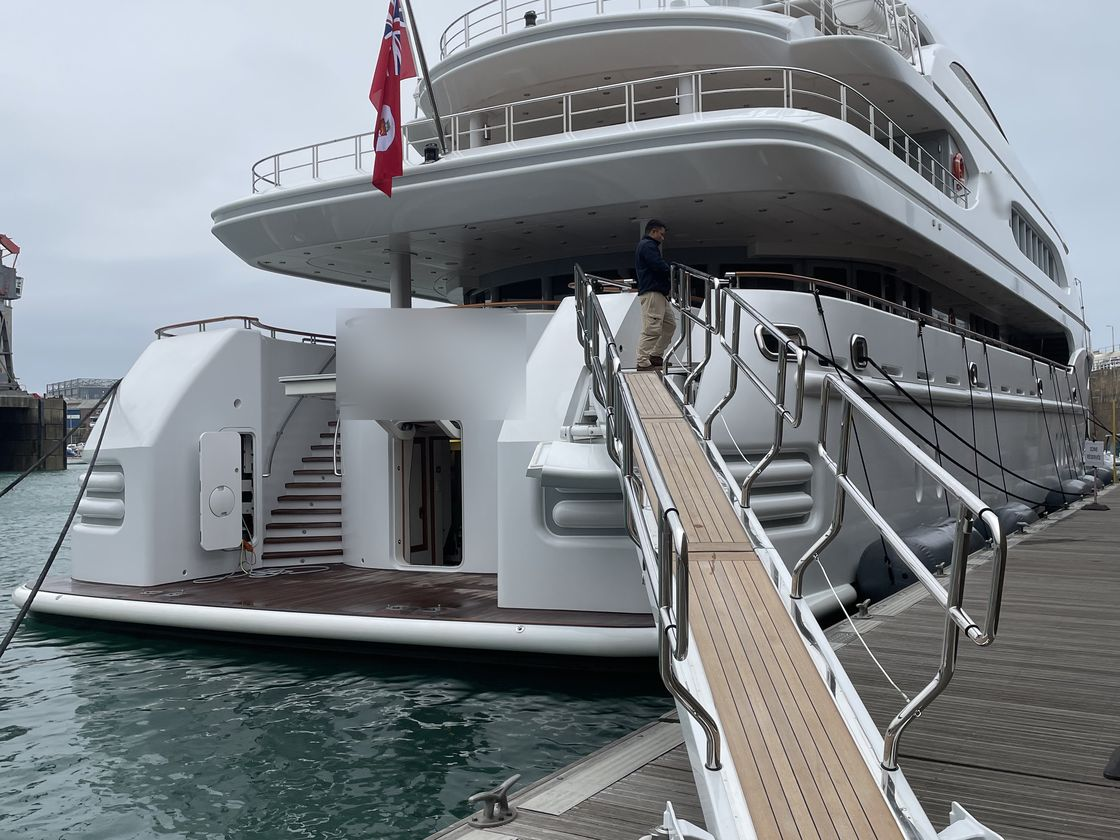
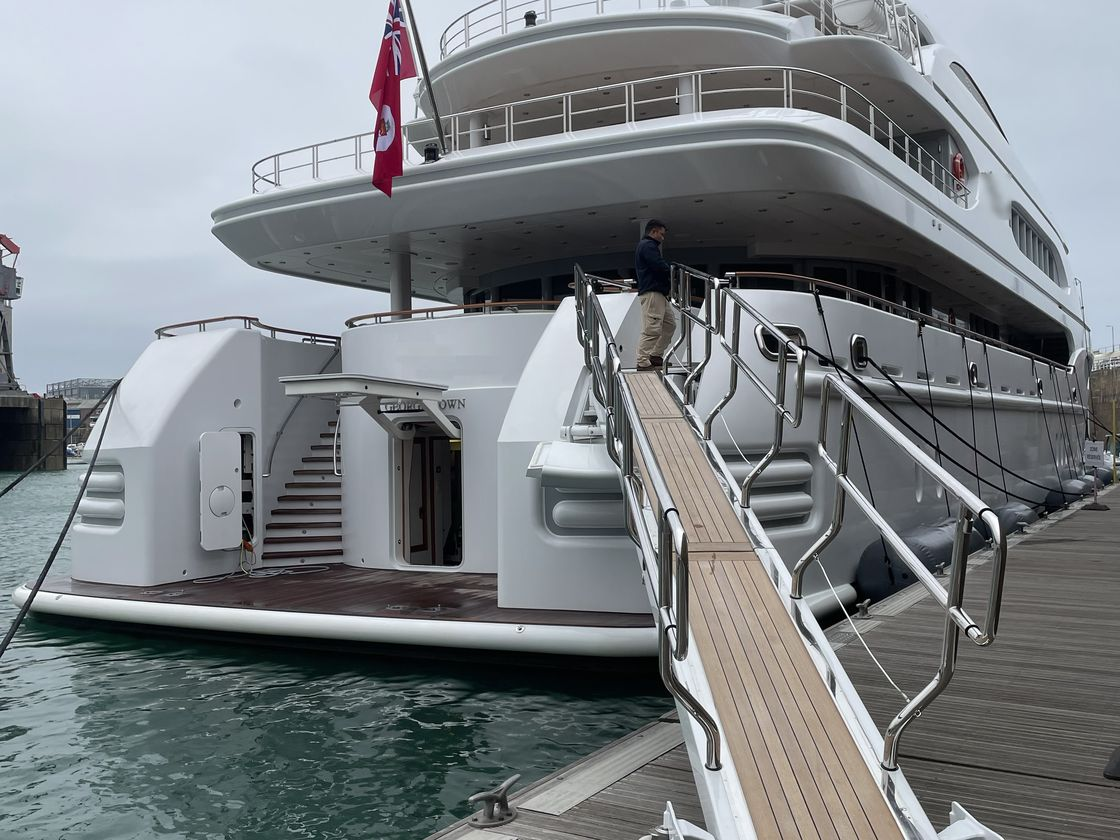
Yachting gallery: Simon's own edit of the Vive la Vie photo (stern name removed in Dropbox), the small name on the superstructure still blurred by the build; notes: release

Changed region(s): [[0.2812, 0.3405, 0.4688, 0.5262]]

diff --git a/CLAUDE.md b/CLAUDE.md
@@ -32,7 +32,7 @@ Public website of Channel Island Port Services (cips.agency). **`SITE-MANUAL.md`
 The picker carries a **preview of the journey card** (title, "N nm from <place>", destination, what for, speed, ETA) under the choices; it opens on the Mediterranean and follows each choice and the name. Its numbers come from the route the globe plans: `beat.js` (`publishKinRoute`) puts them on `CIPS_VESSEL.route` and fires `cips:route`; the real voyage card in the panel uses the same route (ETA counts down along it). Choosing a departure, or opening the picker, turns the globe to it (`focusOn`); once the journey is under way `tick()` keeps the globe turned to the vessel all the way (as it already did for a routed ship). "Scroll to start the journey" (the first scroll presses it) folds the picker away (`.voyage-mode`) and leaves the card with "Scroll to continue".
 
 ## Open items (5 Nov 2026)
-- GitHub repo `CIPS-SP/CIPS_SITE_LIVE` (private): `dev` and `main` are both on GitHub (GO-LIVE 17 Nov 2026, afternoon: www.cips.agency is the site (GoDaddy www CNAME to cipslive.pages.dev, Cloudflare custom domain Active; cips.agency forwarded by GoDaddy to https://www.cips.agency, http working, https waiting for GoDaddy's certificate); REVIEW_PAGE set to www.cips.agency in the dashboard and wrangler.toml; last release 19 Nov 2026, later, Simon "rebuild again, then push": the Yachting desk (still switched off) with the photo gallery in its top panel (home/hero-gallery.js, 31 photos from the image picker, tools/build-carousel.py), Plan / Replenish / Refresh, registry in place of customs; the image picker and its launcher (tools only, not published); pages check passed; before that 19 Nov 2026, desk review, Simon "push/release everything (still keeping the sector desks switched off)": the header links land on their section below the header from the globe, mid-journey and from another page (an early handler until the journey code is ready), the reviews code shared in home/reviews.js, the home services tidied (70m and 150m with no space, full stops, no white-glove), the Yachting desk reviewed (still switched off), the journey counter counts the sea as a start; pages check passed; before that 18 Nov 2026, bot check, Simon "push": notes and drop box code only (enquiries without the form timing or under 4 s dropped; drop box deployed and checked live), the site unchanged; before that 18 Nov 2026, review cards, Simon "Push": the strip's cards fitted to each review, centred, long ones six lines with Read more; before that 18 Nov 2026, reviews by type, Simon "Push": the Port Call Index shows CIPS Form reviews only, the 'What our clients say' strip for Testimonial and Imported, anonymised fallback examples; pages check passed; drop box deployed 18 Nov 2026 (review types: type, from, source, sourceLink pass through; wrangler signed out again); last release 17 Nov 2026, manual, Simon "push": notes only (SITE-MANUAL monthly check, analytics, Google listings plan), the site unchanged; before that 17 Nov 2026, address, Simon "push": the street address in the home page's business details (New North Quay, St Helier Marina, JE2 3ND); wrangler signed out on this PC after the drop box work (sign in again to deploy); before that 17 Nov 2026, enquiry alert, Simon "push": notes and drop box code only (ntfy alert, references only; all-time counts), the site unchanged; before that 17 Nov 2026, journey counts, Simon "push": the journey counter (js/journey-counts.js; drop box deployed with the Counter Durable Object and STATS_KEY, /stats), Cookies and Privacy wording, SITE-MANUAL.md; this release also switches on Cloudflare Web Analytics; pages check passed; before that 17 Nov 2026, analytics, Simon "Push and release": Cloudflare Web Analytics allowed in the CSP, Cookies and Privacy pages updated (switch on in the Pages project); pages check passed; before that 17 Nov 2026, search basics, Simon "Push and release": canonical addresses, link previews (images/brand/og-share.jpg, the email banner), schema.org business details, sitemap without .html; pages check passed; before that 17 Nov 2026, after go-live, Simon "Push and release": the yachting page (switched off) noindex and out of the sitemap; before that 17 Nov 2026, go-live, Simon "push": security.txt on www.cips.agency; before that 17 Nov 2026, latest, Simon "Push and release": a phone held sideways gets 'Turn your phone upright' over the journey (sideways phone, turning arrows, upright phone) with Skip to CIPS; full check passed; before that 17 Nov 2026, later, Simon "Push and release": the footer's copyright line straight under Built by CIPS, no divider (home and yachting page); before that 17 Nov 2026, Simon "Push and release": CIPS Desk LIVE 'Ask us to open a private portal, a live view...', the computer finale's closing line clear of the plotter, and the go-live preparation (GO-LIVE.md; old Wix addresses to the home page, HSTS for www.cips.agency, sitemap; no effect until www points here); pages check passed; before that 16 Nov 2026, final, Simon "then push release": the enquiry form's 'Goes to our duty agent' kept on one line (under the button on a phone), the chart picture's frame reads 'The approach'; pages check passed; before that 16 Nov 2026, last, Simon "Fix those bits then push release": the main site's guard arms only once the journey has its full length (fast scroll reloaded the globe), at most 2 On Scene clips loaded on a phone, the finale's glide certainly folds the journey away (stuck at the top of the main site); full check passed; before that 16 Nov 2026, latest, Simon "push and release when its fixed and checked": a swipe at the end of the phone film glides into the main site (no bounce, no fling to the foot), the globe redrawn at once when the iPhone toolbar folds away; full check passed; before that 16 Nov 2026, later, Simon "push and release when the check passes": the self-playing pull-back and film on the computer too (full HD film), both unlocking 1 s after the logo and gliding on by themselves, no pause at the end of the phone film; full check passed; before that 16 Nov 2026 (the clock went back), Simon "push and release when the check passes": the completion message back at the fold with two showings, the phone film's open sea slowed so it is still moving under the badge then straight on (`journey-6-departure-tall-4.mp4`), no arrival brake after the glide, the garbage man at the others' pace (quay 14250vh, both versions); full check passed; before that 18 Nov 2026, latest, Simon "push and release when the check passes": the phone's page locked against scrolling on from the card's fold (back by hand still works), three slow completion flashes, the tall film rebuilt from the HD original with a keyframe every 10 pictures (`journey-6-departure-tall-3.mp4`, no shimmer), arrows on the picker's Scroll to start the journey; full check passed; before that 18 Nov 2026, later, Simon "push release everything": the phone film's swoop up to the pier heads slowed 2.5x (`journey-6-departure-tall-2.mp4`, `tallStretch`), the plotter off 1 s sooner, the glide into the main site after the last picture, arrows on Scroll the journey, no empty band above the home page on a phone, slower completion flashes; full check passed (before the flash change); before that 18 Nov 2026, Simon "push and release it when complete": the quay card's message fades as it folds and the completion message flashes once folded, the phone's pull-back from the quay self-playing after the flashes, the film at full speed, the plotter gone 0.7 s into the pier-heads shot; full check passed; before that 17 Nov 2026, night, Simon "push and release": the phone film plays with the page held still (the scene follows the film's clock), the arrival brake at the top of the main site, the quay completion message only as the card folds, the space under Back to the journey closed on a phone; full check passed; before that 17 Nov 2026, evening, Simon "push and release": the phone finale's film self-playing (0.75 speed, scroll back to rewind, the last picture held 3.5 s), Skip to CIPS back at the quay on a phone; full check passed; before that 17 Nov 2026, later, Simon "push and release": the harbour scene not drawn under the full screen finale film (smoother scrub on a phone), the quay card's three pulses after it has folded, an iPhone bounce at the top of the main site no longer reloading the globe; full check passed; before that 17 Nov 2026, Simon "push and release if you find and implement solutions": the phone finale's film scrolled half as long again, no shrink into the home page on a phone (the judder at the landing), the film's own roundel edge covered in the last shot; full check passed; before that 16 Nov 2026, later, Simon "Push and release": the tall film rebuilt with clean 25 fps timing (the iPhone stuck on its first picture) with a fallback to the 720p copy, the journey released for good once folded away, the open sea 30% of the film's scroll, the quay card folding with its message underneath, the moored yachts drawn as sharp overlays, the quay On Scene window the card's height; full check passed; before that 16 Nov 2026, Simon "Push and release": the phone finale's tall film (sharp, smooth to scrub) ending on the open sea centred on the yacht with the CIPS roundel above it, no judder at the top of the main site after the finale, the quay card's close back on a phone; full check passed; before that 15 Nov 2026, later, Simon "push and release (skip the full site test)": the phone opening's Scroll the journey level with the CHANNEL ISLANDS label; checked in a phone-sized browser only; before that 15 Nov 2026, Simon "do all of that then push and release": the phone opening's heading at the top, no old quay card after the quay, the finale's first shots slower and the overhead shot skipped, a steady journey length on touch screens (the toolbar no longer re-measures it); before that 14 Nov 2026, seventh, Simon "push and release": the phone finale slower (6000vh) with its last shot shown whole, the plotter hidden at the quay and over the last shot, the quay card bottom right, the yacht scaled with the wider harbour view, no intro line on the phone opening, the Corbiere clip hold x1.5; full check passed; before that 14 Nov 2026, sixth, Simon "push and release": the finale scrolled like the rest of the journey on phone and computer, no plotter at the quay on a phone, the stage 100dvh (no cream strip on an iPhone); full check passed; before that 14 Nov 2026, fifth, Simon "push and release everything": On Scene clips no longer freeze on a phone, the Corbiere clip loops further into Noirmont, the finale waits while the page is not in front, the photos under the boardroom heading on narrow screens, 'trusted associates and partners'; full check could not finish (left-over test Chromes), checked in the browser pane instead: no errors; before that 14 Nov 2026, fourth, Simon "push and release ... assuming no errors": the 720p departure film on phones, the finale keeping real time, the slimmer quay card, the wider berth approach; the full check could not finish (left-over test Chromes slowed the PC), checked instead in the browser pane: no errors; before that 14 Nov 2026, third, Simon "push and release": phone memory cut from about 780 MB to 330 MB (half-size plates, no z19 harbour tiles), no vessel name, the yacht off Jersey at the globe's end, the plotter's Expand to the right, plotter and footage aligned, slower Noirmont, a wider harbour; before that 14 Nov 2026 later, Simon "push and release": phones run the computer's real scenes at the computer's length with the plotter and On Scene side by side, no game doors, the quay card below the Skip pill and no voyage card (the light sea version only if 3D fails); before that, 14 Nov 2026, Simon "push and release": the phone work: the lighter journey at sea on touch phones (`_shared/phone-sea.js`) with the real harbour after it, the plotter and On Scene side by side, the phone opening (intro above the cards, Skip top right, globe position C, voyage card at the bottom, sideways drags turn the globe without starting the journey) and the phone review fixes (review stars, contact block, one-line pill, figures two by two, legal tabs), details in `PHONE-REVIEW.md`; before that 10 Nov 2026, Simon "push and release": notes only (security plan: DMARC, DKIM, the other two domains), the site itself unchanged since `c76a160`; before that 7 Nov 2026 late, Simon "push and release everything": `main` = `c76a160` with the top bar gone and the 24/7 call button beside WhatsApp, the Back to the globe pill below the header, the copyright line at the very bottom; before that `b5a38d4` with the security headers (A1-A4, checked live: every inline script allowed, drop box reachable, security.txt served), the log-in links hidden and Privacy & Security; before that, 7 Nov evening, `7b356e1` with the footer, Built by CIPS, the Atlantic Gateway vector logo, the review prompt moved, the Simulation pill hidden, the legal pages filled in, and the enquiry form sending through the drop box and Brevo (tested live: E-4HHXHC from cipslive). Before that, `main` was at `79e6efd`; earlier releases: `0f36c2a` with the picker's glow all the way round, after `9b6cf2e` with Scroll the journey, `86f3c3f` with Howard's photo and the sharper Le Mourier logo, `37c94fe` with the heading In the Boardroom and at the Berth and Howard's placeholder out, `b0ef048` with Simon's quayside photo, `a67616a` with the sharper Water Taxi CI logo, `da9924e` with the heading From Boardroom to Quayside, `ec0dc23` with Simon and Howard in The personal touch, `8dd929d` with steadier header links and Contact going to The personal touch, `7982019` with the score's part-filled stars, `6a0945f` with the Port Call Index card changes and the home page reorder, `3f5a0a4` with the header links fixed and the old reviews pages removed, `863a76d` with the four home figures on one size, `6c8d923` with the desk cards switched off (pages kept), `2e130ef` with the Alderney card's wording, `0874ba0` with Simon's portrait in The personal touch and `bee8d4a` with the Trusted Partners strip, the Guernsey wording and the Desk brief). Push again only when Simon says push. Cloudflare Pages project `cipslive` is live at https://cipslive.pages.dev (5 Nov; builds `main`, previews off, noindex), so every release to `main` goes online there. cips.agency is connected since 17 Nov 2026 (www.cips.agency is the site; see GO-LIVE.md).
+- GitHub repo `CIPS-SP/CIPS_SITE_LIVE` (private): `dev` and `main` are both on GitHub (GO-LIVE 17 Nov 2026, afternoon: www.cips.agency is the site (GoDaddy www CNAME to cipslive.pages.dev, Cloudflare custom domain Active; cips.agency forwarded by GoDaddy to https://www.cips.agency, http working, https waiting for GoDaddy's certificate); REVIEW_PAGE set to www.cips.agency in the dashboard and wrangler.toml; last release 19 Nov 2026, evening, Simon "push the changes and the cruise desk page": the Cruise desk built (still switched off, gallery of 10 starter photos), Vive la Vie's name taken off in Dropbox by Simon (the small one on the superstructure blurred by the build); pages check passed; before that 19 Nov 2026, later, Simon "rebuild again, then push": the Yachting desk (still switched off) with the photo gallery in its top panel (home/hero-gallery.js, 31 photos from the image picker, tools/build-carousel.py), Plan / Replenish / Refresh, registry in place of customs; the image picker and its launcher (tools only, not published); pages check passed; before that 19 Nov 2026, desk review, Simon "push/release everything (still keeping the sector desks switched off)": the header links land on their section below the header from the globe, mid-journey and from another page (an early handler until the journey code is ready), the reviews code shared in home/reviews.js, the home services tidied (70m and 150m with no space, full stops, no white-glove), the Yachting desk reviewed (still switched off), the journey counter counts the sea as a start; pages check passed; before that 18 Nov 2026, bot check, Simon "push": notes and drop box code only (enquiries without the form timing or under 4 s dropped; drop box deployed and checked live), the site unchanged; before that 18 Nov 2026, review cards, Simon "Push": the strip's cards fitted to each review, centred, long ones six lines with Read more; before that 18 Nov 2026, reviews by type, Simon "Push": the Port Call Index shows CIPS Form reviews only, the 'What our clients say' strip for Testimonial and Imported, anonymised fallback examples; pages check passed; drop box deployed 18 Nov 2026 (review types: type, from, source, sourceLink pass through; wrangler signed out again); last release 17 Nov 2026, manual, Simon "push": notes only (SITE-MANUAL monthly check, analytics, Google listings plan), the site unchanged; before that 17 Nov 2026, address, Simon "push": the street address in the home page's business details (New North Quay, St Helier Marina, JE2 3ND); wrangler signed out on this PC after the drop box work (sign in again to deploy); before that 17 Nov 2026, enquiry alert, Simon "push": notes and drop box code only (ntfy alert, references only; all-time counts), the site unchanged; before that 17 Nov 2026, journey counts, Simon "push": the journey counter (js/journey-counts.js; drop box deployed with the Counter Durable Object and STATS_KEY, /stats), Cookies and Privacy wording, SITE-MANUAL.md; this release also switches on Cloudflare Web Analytics; pages check passed; before that 17 Nov 2026, analytics, Simon "Push and release": Cloudflare Web Analytics allowed in the CSP, Cookies and Privacy pages updated (switch on in the Pages project); pages check passed; before that 17 Nov 2026, search basics, Simon "Push and release": canonical addresses, link previews (images/brand/og-share.jpg, the email banner), schema.org business details, sitemap without .html; pages check passed; before that 17 Nov 2026, after go-live, Simon "Push and release": the yachting page (switched off) noindex and out of the sitemap; before that 17 Nov 2026, go-live, Simon "push": security.txt on www.cips.agency; before that 17 Nov 2026, latest, Simon "Push and release": a phone held sideways gets 'Turn your phone upright' over the journey (sideways phone, turning arrows, upright phone) with Skip to CIPS; full check passed; before that 17 Nov 2026, later, Simon "Push and release": the footer's copyright line straight under Built by CIPS, no divider (home and yachting page); before that 17 Nov 2026, Simon "Push and release": CIPS Desk LIVE 'Ask us to open a private portal, a live view...', the computer finale's closing line clear of the plotter, and the go-live preparation (GO-LIVE.md; old Wix addresses to the home page, HSTS for www.cips.agency, sitemap; no effect until www points here); pages check passed; before that 16 Nov 2026, final, Simon "then push release": the enquiry form's 'Goes to our duty agent' kept on one line (under the button on a phone), the chart picture's frame reads 'The approach'; pages check passed; before that 16 Nov 2026, last, Simon "Fix those bits then push release": the main site's guard arms only once the journey has its full length (fast scroll reloaded the globe), at most 2 On Scene clips loaded on a phone, the finale's glide certainly folds the journey away (stuck at the top of the main site); full check passed; before that 16 Nov 2026, latest, Simon "push and release when its fixed and checked": a swipe at the end of the phone film glides into the main site (no bounce, no fling to the foot), the globe redrawn at once when the iPhone toolbar folds away; full check passed; before that 16 Nov 2026, later, Simon "push and release when the check passes": the self-playing pull-back and film on the computer too (full HD film), both unlocking 1 s after the logo and gliding on by themselves, no pause at the end of the phone film; full check passed; before that 16 Nov 2026 (the clock went back), Simon "push and release when the check passes": the completion message back at the fold with two showings, the phone film's open sea slowed so it is still moving under the badge then straight on (`journey-6-departure-tall-4.mp4`), no arrival brake after the glide, the garbage man at the others' pace (quay 14250vh, both versions); full check passed; before that 18 Nov 2026, latest, Simon "push and release when the check passes": the phone's page locked against scrolling on from the card's fold (back by hand still works), three slow completion flashes, the tall film rebuilt from the HD original with a keyframe every 10 pictures (`journey-6-departure-tall-3.mp4`, no shimmer), arrows on the picker's Scroll to start the journey; full check passed; before that 18 Nov 2026, later, Simon "push release everything": the phone film's swoop up to the pier heads slowed 2.5x (`journey-6-departure-tall-2.mp4`, `tallStretch`), the plotter off 1 s sooner, the glide into the main site after the last picture, arrows on Scroll the journey, no empty band above the home page on a phone, slower completion flashes; full check passed (before the flash change); before that 18 Nov 2026, Simon "push and release it when complete": the quay card's message fades as it folds and the completion message flashes once folded, the phone's pull-back from the quay self-playing after the flashes, the film at full speed, the plotter gone 0.7 s into the pier-heads shot; full check passed; before that 17 Nov 2026, night, Simon "push and release": the phone film plays with the page held still (the scene follows the film's clock), the arrival brake at the top of the main site, the quay completion message only as the card folds, the space under Back to the journey closed on a phone; full check passed; before that 17 Nov 2026, evening, Simon "push and release": the phone finale's film self-playing (0.75 speed, scroll back to rewind, the last picture held 3.5 s), Skip to CIPS back at the quay on a phone; full check passed; before that 17 Nov 2026, later, Simon "push and release": the harbour scene not drawn under the full screen finale film (smoother scrub on a phone), the quay card's three pulses after it has folded, an iPhone bounce at the top of the main site no longer reloading the globe; full check passed; before that 17 Nov 2026, Simon "push and release if you find and implement solutions": the phone finale's film scrolled half as long again, no shrink into the home page on a phone (the judder at the landing), the film's own roundel edge covered in the last shot; full check passed; before that 16 Nov 2026, later, Simon "Push and release": the tall film rebuilt with clean 25 fps timing (the iPhone stuck on its first picture) with a fallback to the 720p copy, the journey released for good once folded away, the open sea 30% of the film's scroll, the quay card folding with its message underneath, the moored yachts drawn as sharp overlays, the quay On Scene window the card's height; full check passed; before that 16 Nov 2026, Simon "Push and release": the phone finale's tall film (sharp, smooth to scrub) ending on the open sea centred on the yacht with the CIPS roundel above it, no judder at the top of the main site after the finale, the quay card's close back on a phone; full check passed; before that 15 Nov 2026, later, Simon "push and release (skip the full site test)": the phone opening's Scroll the journey level with the CHANNEL ISLANDS label; checked in a phone-sized browser only; before that 15 Nov 2026, Simon "do all of that then push and release": the phone opening's heading at the top, no old quay card after the quay, the finale's first shots slower and the overhead shot skipped, a steady journey length on touch screens (the toolbar no longer re-measures it); before that 14 Nov 2026, seventh, Simon "push and release": the phone finale slower (6000vh) with its last shot shown whole, the plotter hidden at the quay and over the last shot, the quay card bottom right, the yacht scaled with the wider harbour view, no intro line on the phone opening, the Corbiere clip hold x1.5; full check passed; before that 14 Nov 2026, sixth, Simon "push and release": the finale scrolled like the rest of the journey on phone and computer, no plotter at the quay on a phone, the stage 100dvh (no cream strip on an iPhone); full check passed; before that 14 Nov 2026, fifth, Simon "push and release everything": On Scene clips no longer freeze on a phone, the Corbiere clip loops further into Noirmont, the finale waits while the page is not in front, the photos under the boardroom heading on narrow screens, 'trusted associates and partners'; full check could not finish (left-over test Chromes), checked in the browser pane instead: no errors; before that 14 Nov 2026, fourth, Simon "push and release ... assuming no errors": the 720p departure film on phones, the finale keeping real time, the slimmer quay card, the wider berth approach; the full check could not finish (left-over test Chromes slowed the PC), checked instead in the browser pane: no errors; before that 14 Nov 2026, third, Simon "push and release": phone memory cut from about 780 MB to 330 MB (half-size plates, no z19 harbour tiles), no vessel name, the yacht off Jersey at the globe's end, the plotter's Expand to the right, plotter and footage aligned, slower Noirmont, a wider harbour; before that 14 Nov 2026 later, Simon "push and release": phones run the computer's real scenes at the computer's length with the plotter and On Scene side by side, no game doors, the quay card below the Skip pill and no voyage card (the light sea version only if 3D fails); before that, 14 Nov 2026, Simon "push and release": the phone work: the lighter journey at sea on touch phones (`_shared/phone-sea.js`) with the real harbour after it, the plotter and On Scene side by side, the phone opening (intro above the cards, Skip top right, globe position C, voyage card at the bottom, sideways drags turn the globe without starting the journey) and the phone review fixes (review stars, contact block, one-line pill, figures two by two, legal tabs), details in `PHONE-REVIEW.md`; before that 10 Nov 2026, Simon "push and release": notes only (security plan: DMARC, DKIM, the other two domains), the site itself unchanged since `c76a160`; before that 7 Nov 2026 late, Simon "push and release everything": `main` = `c76a160` with the top bar gone and the 24/7 call button beside WhatsApp, the Back to the globe pill below the header, the copyright line at the very bottom; before that `b5a38d4` with the security headers (A1-A4, checked live: every inline script allowed, drop box reachable, security.txt served), the log-in links hidden and Privacy & Security; before that, 7 Nov evening, `7b356e1` with the footer, Built by CIPS, the Atlantic Gateway vector logo, the review prompt moved, the Simulation pill hidden, the legal pages filled in, and the enquiry form sending through the drop box and Brevo (tested live: E-4HHXHC from cipslive). Before that, `main` was at `79e6efd`; earlier releases: `0f36c2a` with the picker's glow all the way round, after `9b6cf2e` with Scroll the journey, `86f3c3f` with Howard's photo and the sharper Le Mourier logo, `37c94fe` with the heading In the Boardroom and at the Berth and Howard's placeholder out, `b0ef048` with Simon's quayside photo, `a67616a` with the sharper Water Taxi CI logo, `da9924e` with the heading From Boardroom to Quayside, `ec0dc23` with Simon and Howard in The personal touch, `8dd929d` with steadier header links and Contact going to The personal touch, `7982019` with the score's part-filled stars, `6a0945f` with the Port Call Index card changes and the home page reorder, `3f5a0a4` with the header links fixed and the old reviews pages removed, `863a76d` with the four home figures on one size, `6c8d923` with the desk cards switched off (pages kept), `2e130ef` with the Alderney card's wording, `0874ba0` with Simon's portrait in The personal touch and `bee8d4a` with the Trusted Partners strip, the Guernsey wording and the Desk brief). Push again only when Simon says push. Cloudflare Pages project `cipslive` is live at https://cipslive.pages.dev (5 Nov; builds `main`, previews off, noindex), so every release to `main` goes online there. cips.agency is connected since 17 Nov 2026 (www.cips.agency is the site; see GO-LIVE.md).
 - Review drop box live since 5 Nov 2026 (https://cips-review-drop-box.simon-92c.workers.dev, see `review-drop-box/README.md`); `site/review/config.js` points at it except on localhost. Review links are short (`/review/?kinship-7KQ4M2XD`, code held in the box, `review-drop-box/src/code.js`). Never print or commit its two secrets. The Desk's half (make and email links, collect into Airtable, approve, publish) is built and working (Simon, 7 Nov 2026); the brief was sent.
 
 ## The quay and the finale (4 Nov 2026)
